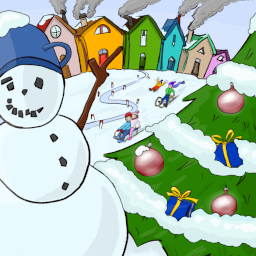
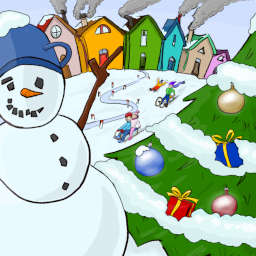
cardsmatch animation added, minor card img update

diff --git a/components/basecomponents/MemoryGame/Themes/MemoryGameXmasTheme.module.css b/components/basecomponents/MemoryGame/Themes/MemoryGameXmasTheme.module.css
@@ -12,10 +12,10 @@
   min-height: 5rem;
   margin-bottom: 1.25rem;
   animation: pop 0.3s 0.3s backwards;
-  -webkit-tap-highlight-color: transparent;  
+  -webkit-tap-highlight-color: transparent;
   transition: transform 0.2s;
-  padding:0;
-  padding-top:1.3rem;  
+  padding: 0;
+  padding-top: 1.3rem;
 }
 
 .newGameButton:hover {
@@ -114,7 +114,7 @@
 }
 
 .front.flipped.selected.cardsMatch {
-  animation: glow 0.7s, turn 0.7s;
+  animation: bell 1.4s; /* awaits sound ends */
 }
 
 .cell.flipped.selected {
@@ -268,10 +268,10 @@
   animation-delay: 0;
 }
 
-@media (min-width: 640px) {  
-  .newGameButton {    
-    font-size: 1.3rem;    
-  }  
+@media (min-width: 640px) {
+  .newGameButton {
+    font-size: 1.3rem;
+  }
 }
 
 @media (min-width: 768px) {
@@ -291,7 +291,7 @@
     font-weight: 800;
     width: 320px;
     height: 114px;
-    padding-top: 28px;    
+    padding-top: 28px;
   }
   .front,
   .back {
@@ -454,6 +454,40 @@
   }
   50% {
     transform: scale(0.7);
+  }
+  100% {
+    transform: scale(1);
+  }
+}
+
+@keyframes bell {
+  0% {
+    transform: scale(1);
+    animation-timing-function: ease-in-out;
+  }
+  10% {
+    transform: scale(0.7);
+  }
+  15% {
+    transform-origin: center -50%;
+    transform: scale(0.7) rotate(30deg);
+  }
+  20% {
+    transform: scale(0.7) rotate(-30deg);
+  }
+  25% {
+    transform: scale(0.7) rotate(30deg);
+  }
+
+  30% {
+    transform: scale(0.7) rotate(-30deg);
+  }
+  35% {
+    transform: scale(0.7) rotate(30deg);
+  }
+  40% {
+    transform-origin: center -50%;
+    transform: scale(0.7) rotate(0deg);
   }
   100% {
     transform: scale(1);

diff --git a/components/basecomponents/MemoryGame/Themes/MemoryGameXmasTheme.tsx b/components/basecomponents/MemoryGame/Themes/MemoryGameXmasTheme.tsx
@@ -6,7 +6,7 @@ import getCardsData from '../getCardsData';
 const gameData = {
   audio: {
     cardFlipSound: '/kids/memory-game/card_flip.mp3',
-    cardsMatchSound: '/kids/memory-game/spell.mp3',
+    cardsMatchSound: '/kids/memory-game/xmasbell.mp3',
     winMusic: '/kids/memory-game/win_music_sh.mp3',
   },
   styles,
